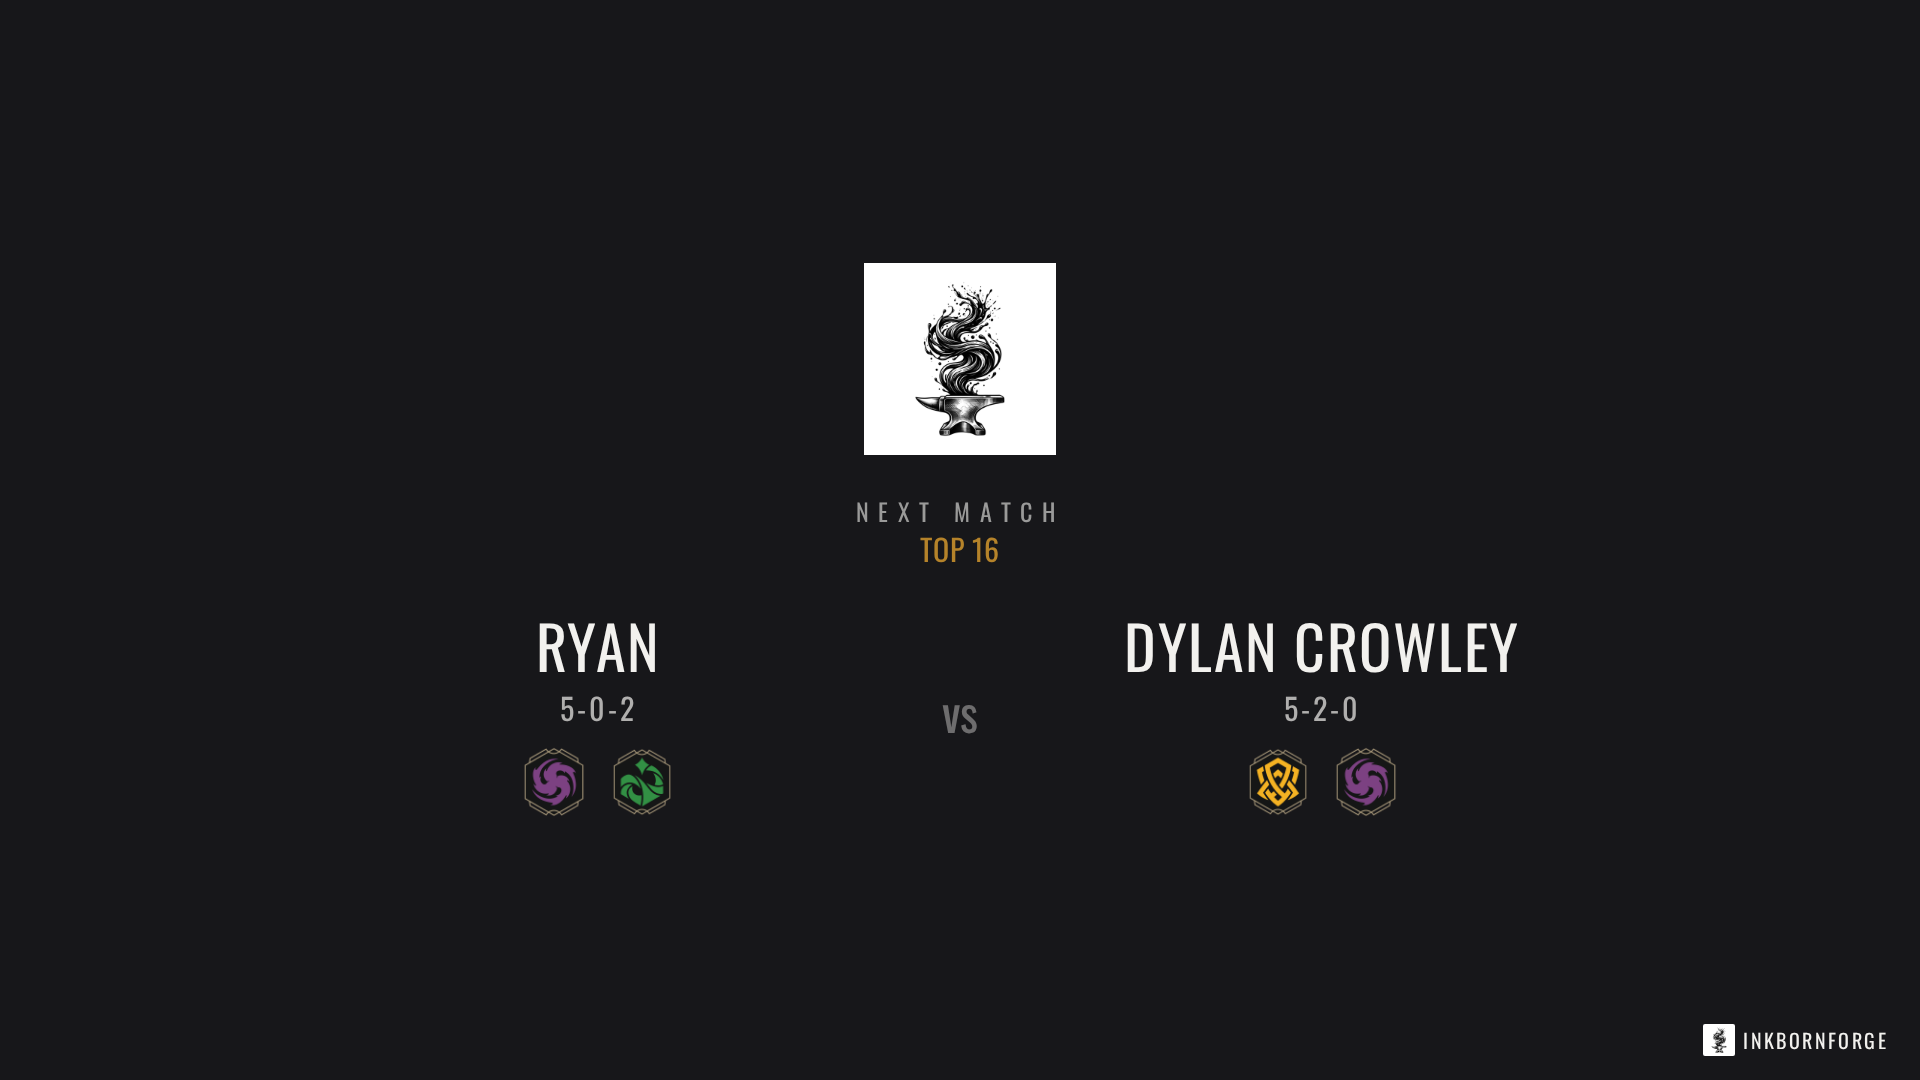
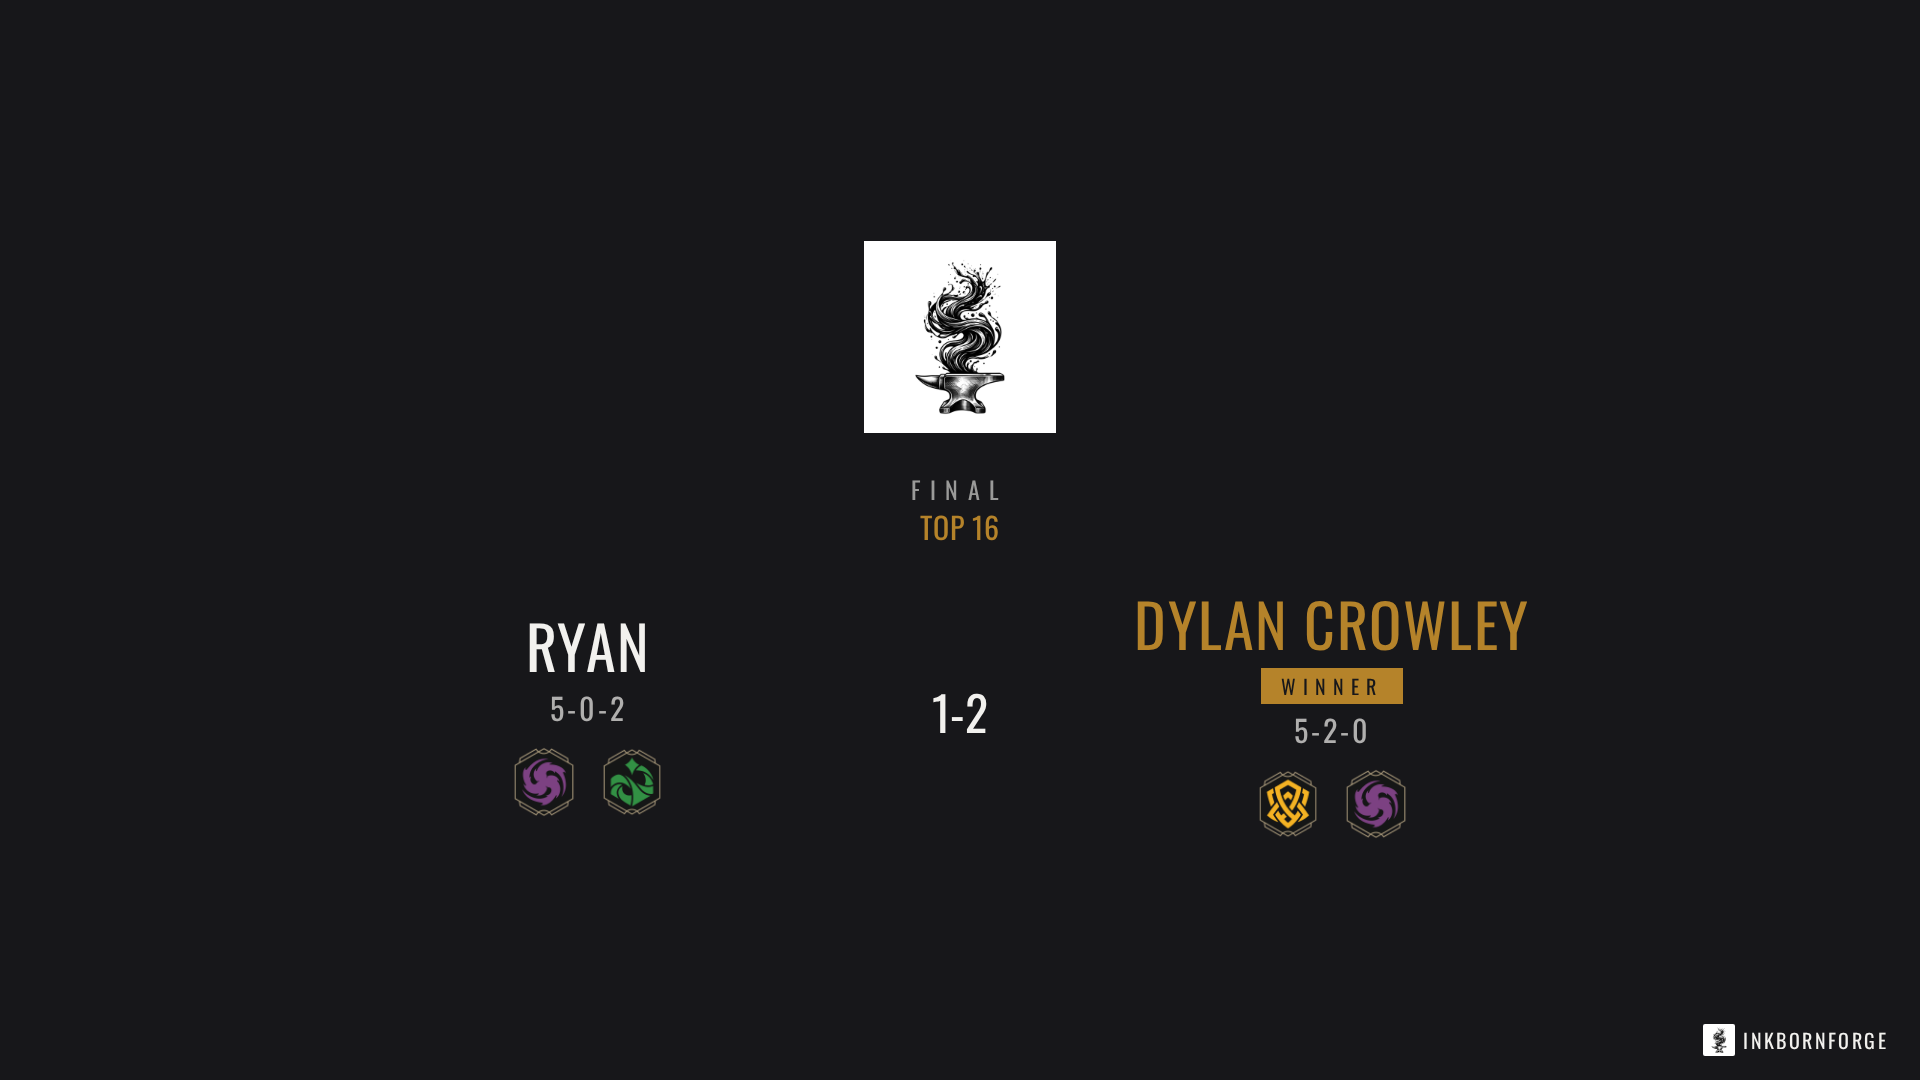
Stream Overlay: break screen headline follows the score
The table keeps holding the pair that just played until the next
pairing is published on RPH and sent over, so a fixed Next match label
was wrong right after a match. breakHeadline() derives it from the
score: a decided match reads Final with the score and a Winner ribbon,
0-0 reads Next match, anything else Match in progress with the score.

Claude-Session: https://claude.ai/code/session_01PuhSUkhQdqWYCWVwuEZRoD

diff --git a/src/pages/StreamOverlayViewPage.jsx b/src/pages/StreamOverlayViewPage.jsx
@@ -4,7 +4,7 @@ import { useTransparentBackground } from '../hooks/useTransparentBackground'
 import { InkIcon } from '../components/InkIcons'
 import { fetchPublicTable, subscribeToTable } from '../lib/streamTables'
 import {
-  OVERLAY_WIDTH, OVERLAY_HEIGHT, MAX_GAME_WINS, rowToState, timerRemainingMs, formatClock, winnerIndex,
+  OVERLAY_WIDTH, OVERLAY_HEIGHT, MAX_GAME_WINS, rowToState, timerRemainingMs, formatClock, winnerIndex, breakHeadline,
 } from '../lib/streamOverlay'
 
 const SIDE_WIDTH = 320
@@ -141,9 +141,11 @@ function TopBanner({ state, now, winner }) {
   )
 }
 
-// Between matches: opaque, the event up top, the next pairing (whatever the
-// table holds — "Send to Stream Overlay" loads the next one), the round.
+// Between matches: opaque, the event up top, then whatever the table holds —
+// the result of the match that just ended until the next pairing is published
+// on RPH and sent over, then the next match (breakHeadline decides).
 function BreakScreen({ state }) {
+  const headline = breakHeadline(state.players)
   return (
     <div
       className="relative overflow-hidden bg-ink font-display text-on-ink select-none flex flex-col items-center justify-center gap-10"
@@ -154,14 +156,14 @@ function BreakScreen({ state }) {
         : <div className="text-7xl uppercase tracking-wide">{state.eventName || ' '}</div>}
 
       <div className="text-center">
-        <div className="text-2xl uppercase tracking-[0.4em] text-on-ink/60">Next match</div>
+        <div className="text-2xl uppercase tracking-[0.4em] text-on-ink/60">{headline.label}</div>
         {state.round && <div className="mt-1 text-3xl uppercase tracking-wide text-forge">{state.round}</div>}
       </div>
 
       <div className="flex items-center gap-16">
-        <BreakPlayer player={state.players[0]} />
-        <div className="text-5xl text-on-ink/40">vs</div>
-        <BreakPlayer player={state.players[1]} />
+        <BreakPlayer player={state.players[0]} isWinner={headline.winner === 0} />
+        <div className={`text-5xl tabular-nums ${headline.score ? 'text-on-ink' : 'text-on-ink/40'}`}>{headline.score ?? 'vs'}</div>
+        <BreakPlayer player={state.players[1]} isWinner={headline.winner === 1} />
       </div>
 
       {state.sponsorLogoUrl && (
@@ -175,10 +177,11 @@ function BreakScreen({ state }) {
   )
 }
 
-function BreakPlayer({ player }) {
+function BreakPlayer({ player, isWinner }) {
   return (
     <div className="w-[560px] text-center">
-      <div className="text-6xl uppercase tracking-wide leading-tight truncate">{player.name || ' '}</div>
+      <div className={`text-6xl uppercase tracking-wide leading-tight truncate ${isWinner ? 'text-forge' : ''}`}>{player.name || ' '}</div>
+      {isWinner && <div className="mt-2 inline-block px-5 py-1 bg-forge text-on-forge text-xl uppercase tracking-[0.35em]">Winner</div>}
       <div className="mt-2 text-3xl text-on-ink/70 tracking-widest">{player.record || ' '}</div>
       <div className="mt-5 flex justify-center gap-4">
         {player.inks.map(ink => <InkIcon key={ink} color={ink} size={72} />)}

diff --git a/src/lib/__tests__/streamOverlay.test.js b/src/lib/__tests__/streamOverlay.test.js
@@ -1,7 +1,7 @@
 import { describe, it, expect } from 'vitest'
 import {
   rowToState, startTimer, pauseTimer, resetTimer, timerRemainingMs, timerPatch, formatClock,
-  timerFromRph, rphClockPatch, featureMatchPatch, swapSidesPatch, winnerIndex,
+  timerFromRph, rphClockPatch, featureMatchPatch, swapSidesPatch, winnerIndex, breakHeadline,
 } from '../streamOverlay'
 
 const row = (overrides = {}) => ({
@@ -26,6 +26,15 @@ describe('streamOverlay row mapping', () => {
     expect(winnerIndex(rowToState(row({ p2_game_wins: 2 })).players)).toBe(1)
     expect(winnerIndex(rowToState(row({ p1_game_wins: 2, p2_game_wins: 1 })).players)).toBe(0)
     expect(rowToState(row({ mode: 'break' })).mode).toBe('break')
+  })
+
+  it('headlines the break screen from the score alone', () => {
+    const fresh = rowToState(row({ p1_game_wins: 0, p2_game_wins: 0 })).players
+    expect(breakHeadline(fresh)).toEqual({ label: 'Next match', score: null, winner: null })
+    const decided = rowToState(row({ p1_game_wins: 1, p2_game_wins: 2 })).players
+    expect(breakHeadline(decided)).toEqual({ label: 'Final', score: '1-2', winner: 1 })
+    const midway = rowToState(row({ p1_game_wins: 1, p2_game_wins: 0 })).players
+    expect(breakHeadline(midway)).toEqual({ label: 'Match in progress', score: '1-0', winner: null })
   })
 
   it('swaps every per-side column', () => {

diff --git a/src/lib/streamOverlay.js b/src/lib/streamOverlay.js
@@ -39,6 +39,18 @@ export function winnerIndex(players) {
   return i === -1 ? null : i
 }
 
+// What the break screen is showing. The table holds the pair that just
+// played until the next pairing is published on RPH and sent over, so the
+// headline comes from the score: a decided match reads as the result, a fresh
+// pairing as the next match, anything else as a match paused between games.
+export function breakHeadline(players) {
+  const winner = winnerIndex(players)
+  const score = `${players[0].gameWins}-${players[1].gameWins}`
+  if (winner !== null) return { label: 'Final', score, winner }
+  if (players.every(p => p.gameWins === 0)) return { label: 'Next match', score: null, winner: null }
+  return { label: 'Match in progress', score, winner: null }
+}
+
 export function timerRemainingMs(state, now = Date.now()) {
   if (state.timerEndsAt === null) return state.timerRemainingMs
   return Math.max(0, state.timerEndsAt - now)

diff --git a/CLAUDE.md b/CLAUDE.md
@@ -220,7 +220,7 @@ In `src/lib/`:
 | `forgeDecks.js` | `parseForgeDeck()` / `forgeDecksFor(folderId)` — The Forge's own recommended lists from `content/forge-decks/` (see "Stock Deck Lists" below) |
 | `storeTiers.js` | RPH store-tier rules for Store Lookup (see below) |
 | `decklistShared.js` | Decklist Inspector/overlay helpers — deck URL param encoding, ink fills, type/cost bucketing |
-| `streamOverlay.js` | Pure Stream Overlay helpers — `rowToState()` (a `stream_tables` row → the render shape), `winnerIndex()`, the wall-time round timer (`startTimer`/`pauseTimer`/`resetTimer` return column patches; `timerRemainingMs`/`formatClock`), `timerFromRph()`/`rphClockPatch()`, `featureMatchPatch()` and `swapSidesPatch()` (see "Stream Overlay" below) |
+| `streamOverlay.js` | Pure Stream Overlay helpers — `rowToState()` (a `stream_tables` row → the render shape), `winnerIndex()`, `breakHeadline()`, the wall-time round timer (`startTimer`/`pauseTimer`/`resetTimer` return column patches; `timerRemainingMs`/`formatClock`), `timerFromRph()`/`rphClockPatch()`, `featureMatchPatch()` and `swapSidesPatch()` (see "Stream Overlay" below) |
 | `streamTables.js` | Supabase access for `stream_tables` — owner CRUD under RLS (`listMyTables`/`createTable`/`updateTable`/`deleteTable`), the public `fetchPublicTable()` and `adjustTable()` RPCs, `subscribeToTable()` on the row's broadcast topic, and the panel's selected-table localStorage key |
 | `rules/` | Rules browser — `registry.js` (document list), `index.js` (accessors), `diff.js` (word diff), `content/<doc>/<version>.js` (see "Rules Browser" below) |
 | `cardImpact.js` | `computeCardImpact()` — per-card "wins above replacement" (WAR) for a deck's games; `computeCardImpactTrend()` — the same logic bucketed by calendar month, powering `CardImpactTrendView`'s WAR-over-time chart |
@@ -508,7 +508,7 @@ Client-side, `routeTitle()`/`routeDescription()` resolve a `/blog/<slug>` path t
 A tournament gameplay overlay for OBS, in the same control-page + chrome-less-view shape as the Decklist Inspector, plus a players' controller. **A "table" is a `stream_tables` row** (`supabase/migrations/012_stream_tables.sql`): one per feature table a supporter streams, with one column per overlay field (event, logos, round, timer, RPH link, and `p1_*`/`p2_*` name, record, inks, lore, game wins) rather than a JSON blob, so increments happen in the database and two writers can never lose a tap. Three routes share a row:
 
 - `StreamOverlayPage` (`/stream-overlay`, supporter-gated, Content Creators) is the control panel. It lists the owner's tables (switch / rename / New table / Delete table / Live-Break toggle; the first table is an explicit click, never auto-created — a mount effect that created one ran twice under StrictMode and made two). Every edit is an optimistic local change plus a column `update` under RLS (`updateTable()`). Lore and game-win buttons go through `adjustTable()`, the same atomic RPC the controller uses. From the row's broadcasts the panel adopts **only the four score columns** — everything else is the owner's own typing, and adopting the echo of a keystroke would clobber the next one. "Copy OBS overlay link" / "Copy player controller link" give the two other URLs; the selected table is remembered in localStorage (`lorcana_stream_table`).
-- `StreamOverlayViewPage` (`/stream-overlay/view?table=<id>`, unguarded) is the one Browser Source: a fixed 1920×1080 frame with opaque ink-black side columns (a transparent **square** cutout at the top of each — the operator positions that player's camera behind it in OBS — then name, record, ink icons, game-win pips, lore) and a top banner (event logo or name, round, timer); everything else is transparent so the gameplay cam sits behind it. An optional sponsor logo sits bottom-center, and the InkbornForge mark + wordmark (same lockup as `Nav`) sits at the foot of the right column, where the reference streams put the overlay tool's brand. It loads the row with `fetchPublicTable()` and then renders every broadcast. **Winner:** derived, no state — once a side's game wins reach `MAX_GAME_WINS` (`winnerIndex()`), that column gets a "Winner" ribbon and the banner's Round stat becomes "Winner · Name 2-1"; resetting game wins for the next match clears it. **Break:** when the row's `mode` is `break` (migration `013_stream_tables_mode.sql`; the panel's Live / Break toggle writes it) the same source renders an opaque full-frame screen instead — event logo or name, "Next match" with both names, records and inks, the round, sponsor logo and brand — so the flow between matches is: send the next pairing from Tournament Lookup while on Break, flip to Live when the cameras are up. No second OBS source.
+- `StreamOverlayViewPage` (`/stream-overlay/view?table=<id>`, unguarded) is the one Browser Source: a fixed 1920×1080 frame with opaque ink-black side columns (a transparent **square** cutout at the top of each — the operator positions that player's camera behind it in OBS — then name, record, ink icons, game-win pips, lore) and a top banner (event logo or name, round, timer); everything else is transparent so the gameplay cam sits behind it. An optional sponsor logo sits bottom-center, and the InkbornForge mark + wordmark (same lockup as `Nav`) sits at the foot of the right column, where the reference streams put the overlay tool's brand. It loads the row with `fetchPublicTable()` and then renders every broadcast. **Winner:** derived, no state — once a side's game wins reach `MAX_GAME_WINS` (`winnerIndex()`), that column gets a "Winner" ribbon and the banner's Round stat becomes "Winner · Name 2-1"; resetting game wins for the next match clears it. **Break:** when the row's `mode` is `break` (migration `013_stream_tables_mode.sql`; the panel's Live / Break toggle writes it) the same source renders an opaque full-frame screen instead — event logo or name, a headline, both names, records and inks, the round, sponsor logo and brand. The headline is `breakHeadline()`, derived from the score because the table keeps holding the pair that just played until the next pairing is published on RPH and sent over: a side on 2 game wins reads "Final" with the score and a Winner ribbon, 0-0 reads "Next match", anything else "Match in progress" with the score. So the flow between matches is: flip to Break when the match ends (the result shows), send the next pairing from Tournament Lookup once RPH publishes it (the screen becomes "Next match" by itself), flip to Live when the cameras are up. No second OBS source.
 - `StreamOverlayControlPage` (`/stream-overlay/control?table=<id>&key=<controller key>`, unguarded) is the players' controller for a tablet at the table: one half per player with big lore ±1 and game-win ±1 taps, each a call to `adjust_stream_table()`. It needs nothing else open.
 
 **Access model, three roles.** The owner reads and writes their rows directly under an owner-only RLS policy. The view and controller are unauthenticated (a Browser Source has no session), so they read through `get_stream_table(id)`, a SECURITY DEFINER function returning the public columns only (never `controller_key` or `owner_id`), and a `BEFORE INSERT OR UPDATE` trigger broadcasts that same public shape via `realtime.send()` on the public Realtime topic `stream-table:<id>` — so a late joiner just reads the row and there is no heartbeat. Taps call `adjust_stream_table(id, key, side, field, ±1)`, a clamped atomic increment gated by `controller_key`, which rides only in the controller link; the view link alone can't change scores. All three were verified against the real project with an anonymous client: direct table reads return nothing, the public read hides the key, a wrong key is refused, five taps land as five and arrive as five broadcasts. No serverless function is involved, so the function budget is untouched. (Applying the migration through the Supabase MCP: statements it classes as destructive — `DROP … IF EXISTS` included — stall waiting for a confirmation that never comes; apply the file's statements without those guards on a fresh schema.)
